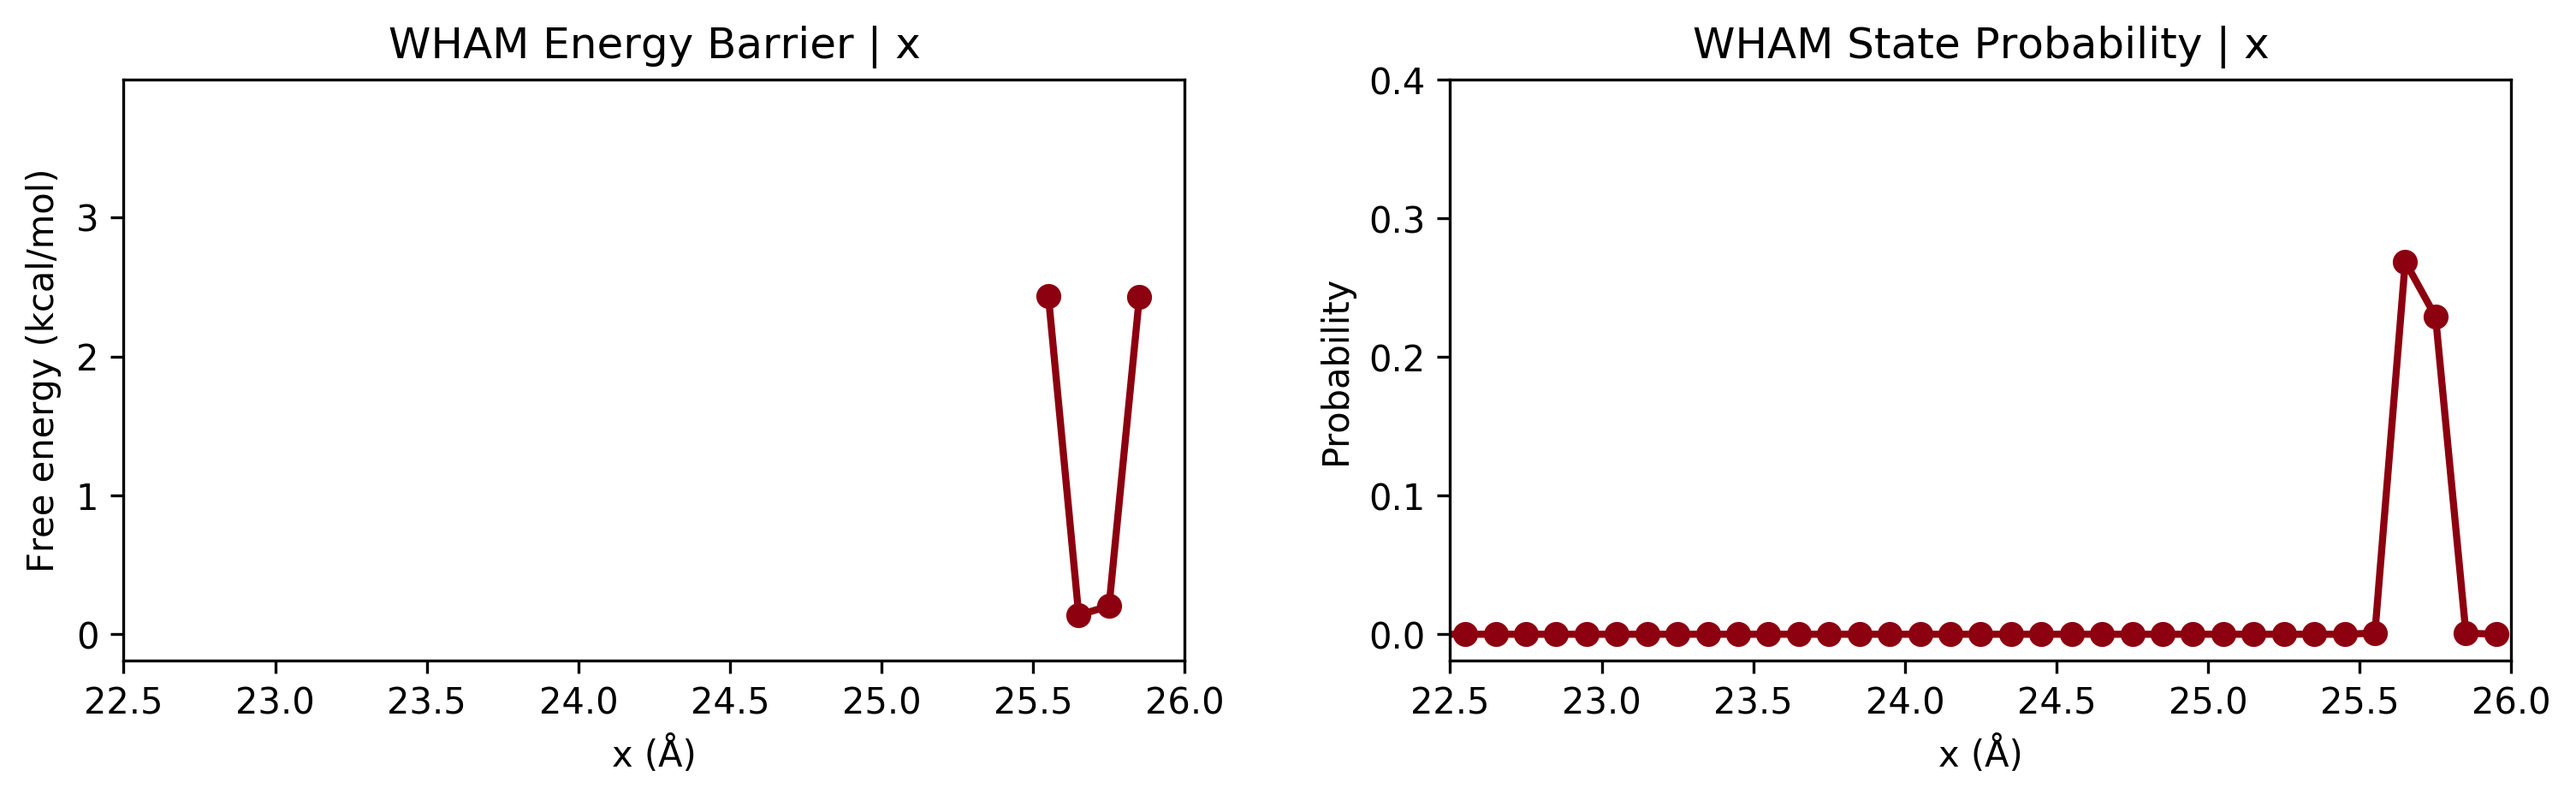
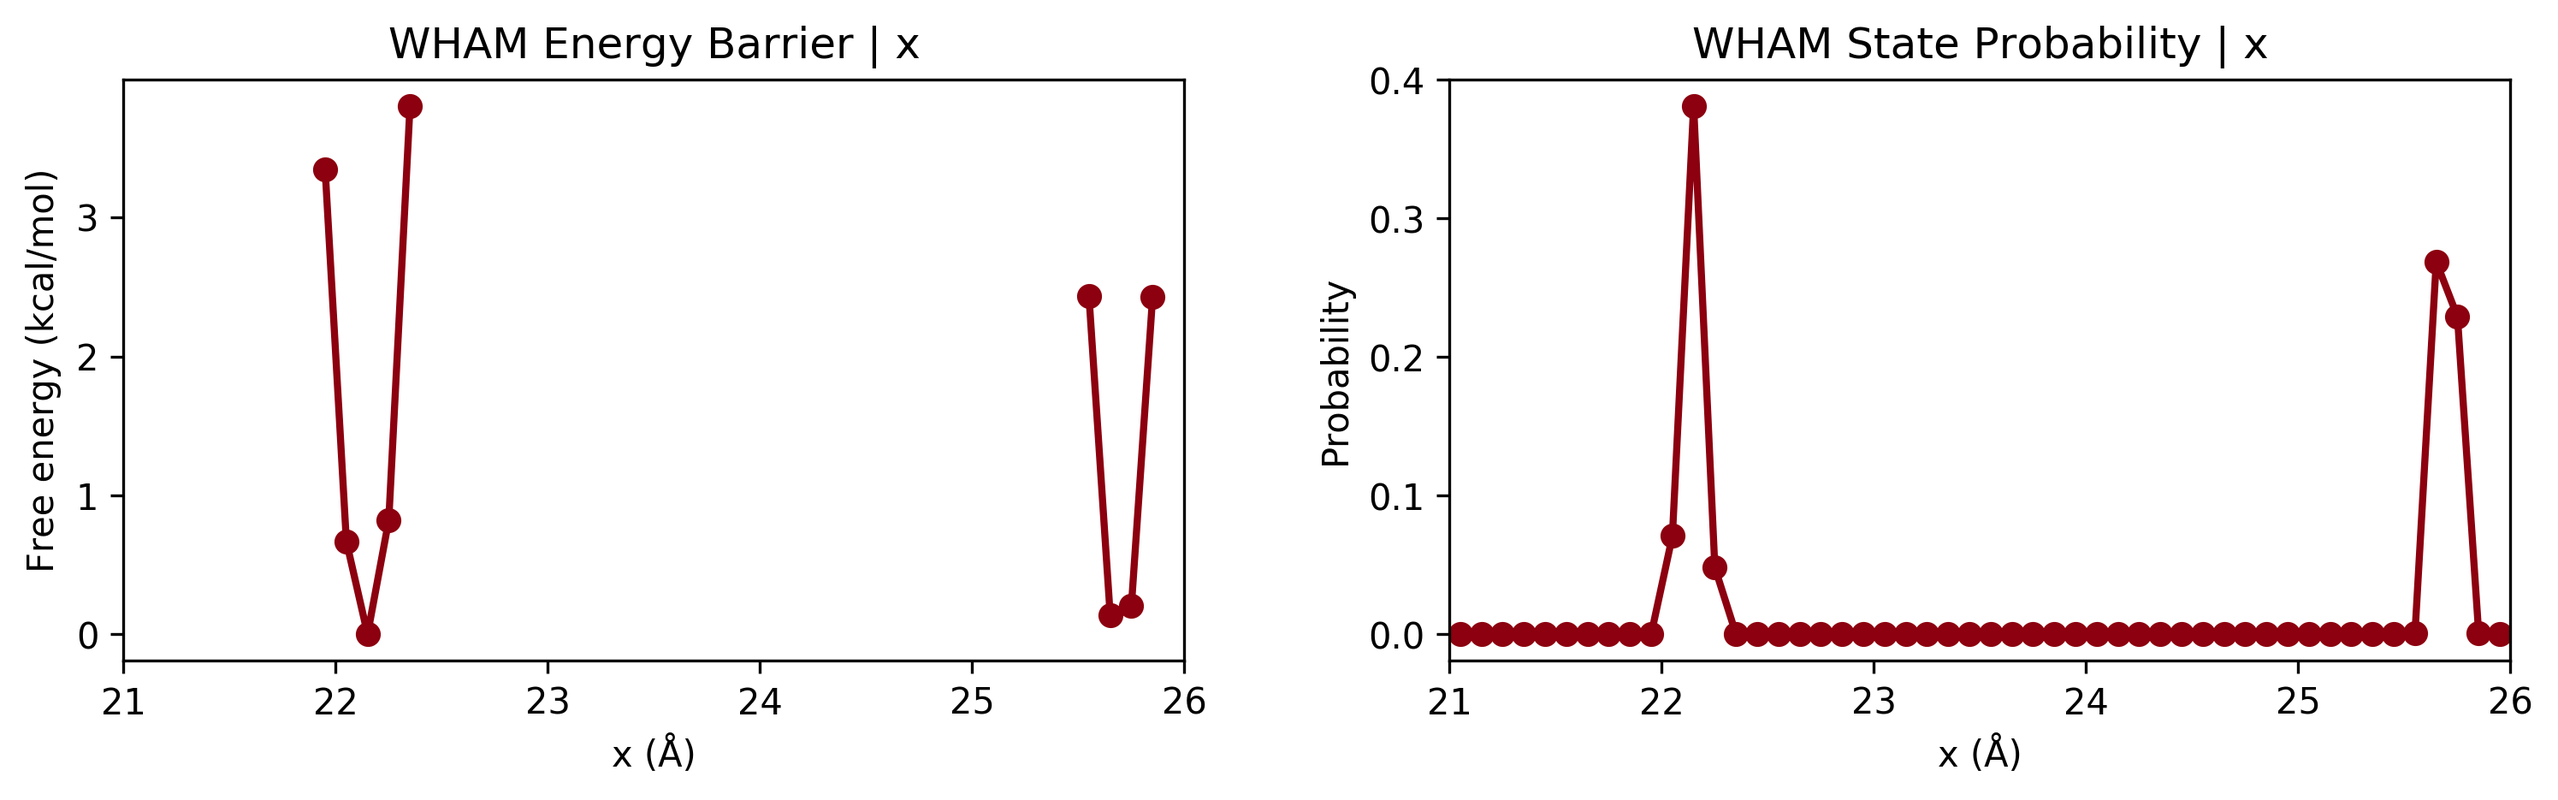
Scan 5-x results.

diff --git a/docs/dctst.md b/docs/dctst.md
@@ -11,6 +11,16 @@
   </tr>
 </table>
 
+### Rigid | 50eps | k: 100 | dx: 0.1 A | 5 ns (Scan 5)
+<p>
+  <details>
+    <summary><b>x-direction</b></summary>
+      <img src="assets/img/dctst/scan5-x-thermo.png">
+      <img src="assets/img/dctst/scan5-x-hist.png">
+      <img src="assets/img/dctst/scan5-x-wham.png">
+  </details>
+</p>
+
 ### Rigid | 50eps | k: 50 | dx: 0.1 A | 5 ns (Scan 4)
 <p>
   <details>
